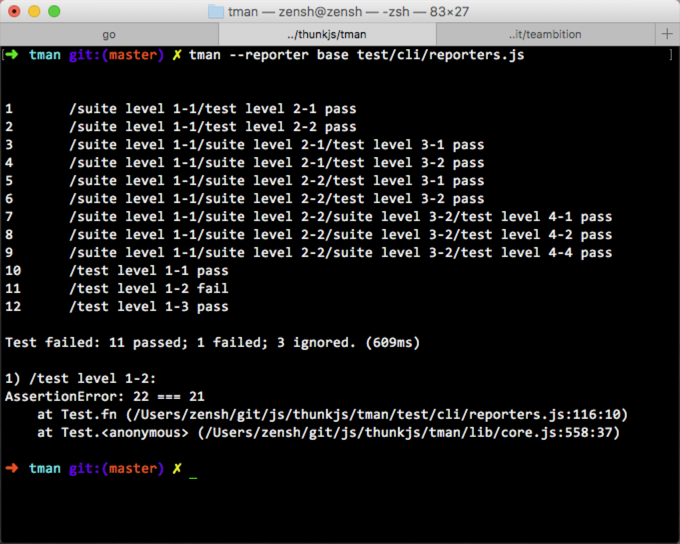
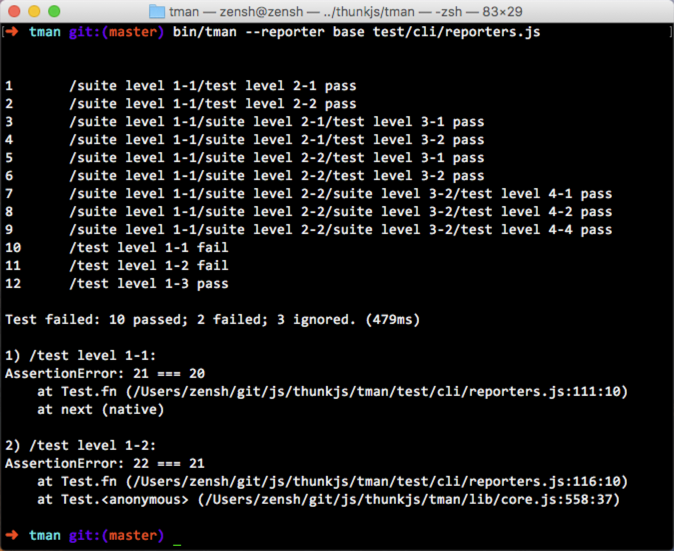
Updated dependencies. Fixed reporter templates.

Changed region(s): [[0.0, 0.0, 1.0, 1.0]]

diff --git a/browser/tman.js b/browser/tman.js
@@ -1222,7 +1222,7 @@ function inherits (Child, Parent) {
 },{}],6:[function(require,module,exports){
 module.exports={
   "name": "tman",
-  "version": "1.6.0",
+  "version": "1.6.1",
   "description": "T-man: Super test manager for JavaScript.",
   "authors": [
     "Yan Qing <admin@zensh.com>"
@@ -1264,19 +1264,19 @@ module.exports={
   "homepage": "https://github.com/thunks/tman",
   "dependencies": {
     "commander": "^2.9.0",
-    "glob": "^7.1.0",
+    "glob": "^7.1.1",
     "supports-color": "^3.1.2",
     "thunks": "^4.7.5"
   },
   "devDependencies": {
-    "babel-plugin-transform-async-to-generator": "^6.8.0",
-    "babel-polyfill": "^6.13.0",
-    "babel-preset-es2015": "^6.14.0",
-    "babel-register": "^6.14.0",
-    "coffee-script": "^1.11.0",
+    "babel-plugin-transform-async-to-generator": "^6.16.0",
+    "babel-polyfill": "^6.16.0",
+    "babel-preset-es2015": "^6.16.0",
+    "babel-register": "^6.16.3",
+    "coffee-script": "^1.11.1",
     "istanbul": "^0.4.5",
-    "standard": "^8.1.0",
-    "ts-node": "^1.3.0",
+    "standard": "^8.3.0",
+    "ts-node": "^1.4.1",
     "typescript": "^2.0.3"
   },
   "files": [

diff --git a/lib/reporters/spec.js b/lib/reporters/spec.js
@@ -59,7 +59,7 @@ Spec.prototype.onFinish = function (rootSuite) {
   rootSuite.errors.forEach(function (err) {
     ctx.log(format.indent(1) + format.red(err.order + ') ' + err.title + ':', true))
     var message = err.stack ? err.stack : String(err)
-    ctx.log(message.replace(/^/gm, format.indent(2)) + '\n')
+    ctx.log(message.replace(/^/gm, format.indent(2)))
   })
   if (rootSuite.errors.length) ctx.log(format.reset('\n'))
   if (rootSuite.exit) process.exit((rootSuite.errors.length || !rootSuite.passed) ? 1 : 0)

diff --git a/lib/reporters/dot.js b/lib/reporters/dot.js
@@ -51,7 +51,7 @@ Dot.prototype.onFinish = function (rootSuite) {
   this.log(format.reset('\n\n'))
 
   rootSuite.errors.forEach(function (err) {
-    this.log(format.indent(1) + format.red(err.order + ') ' + err.title + ':', true))
+    this.log(format.indent(1) + format.red(err.order + ') ' + err.title + ':', true) + '\n')
     var message = err.stack ? err.stack : String(err)
     this.log(message.replace(/^/gm, format.indent(2)) + '\n')
   }, this)

diff --git a/test/cli/reporters.js b/test/cli/reporters.js
@@ -108,7 +108,7 @@ tman.suite('suite level 1-1', function () {
 })
 
 tman.it('test level 1-1', function * () {
-  assert.strictEqual(count++, 21)
+  assert.strictEqual(count++, 20) // will error
   yield thunk.delay(100)
 })
 
